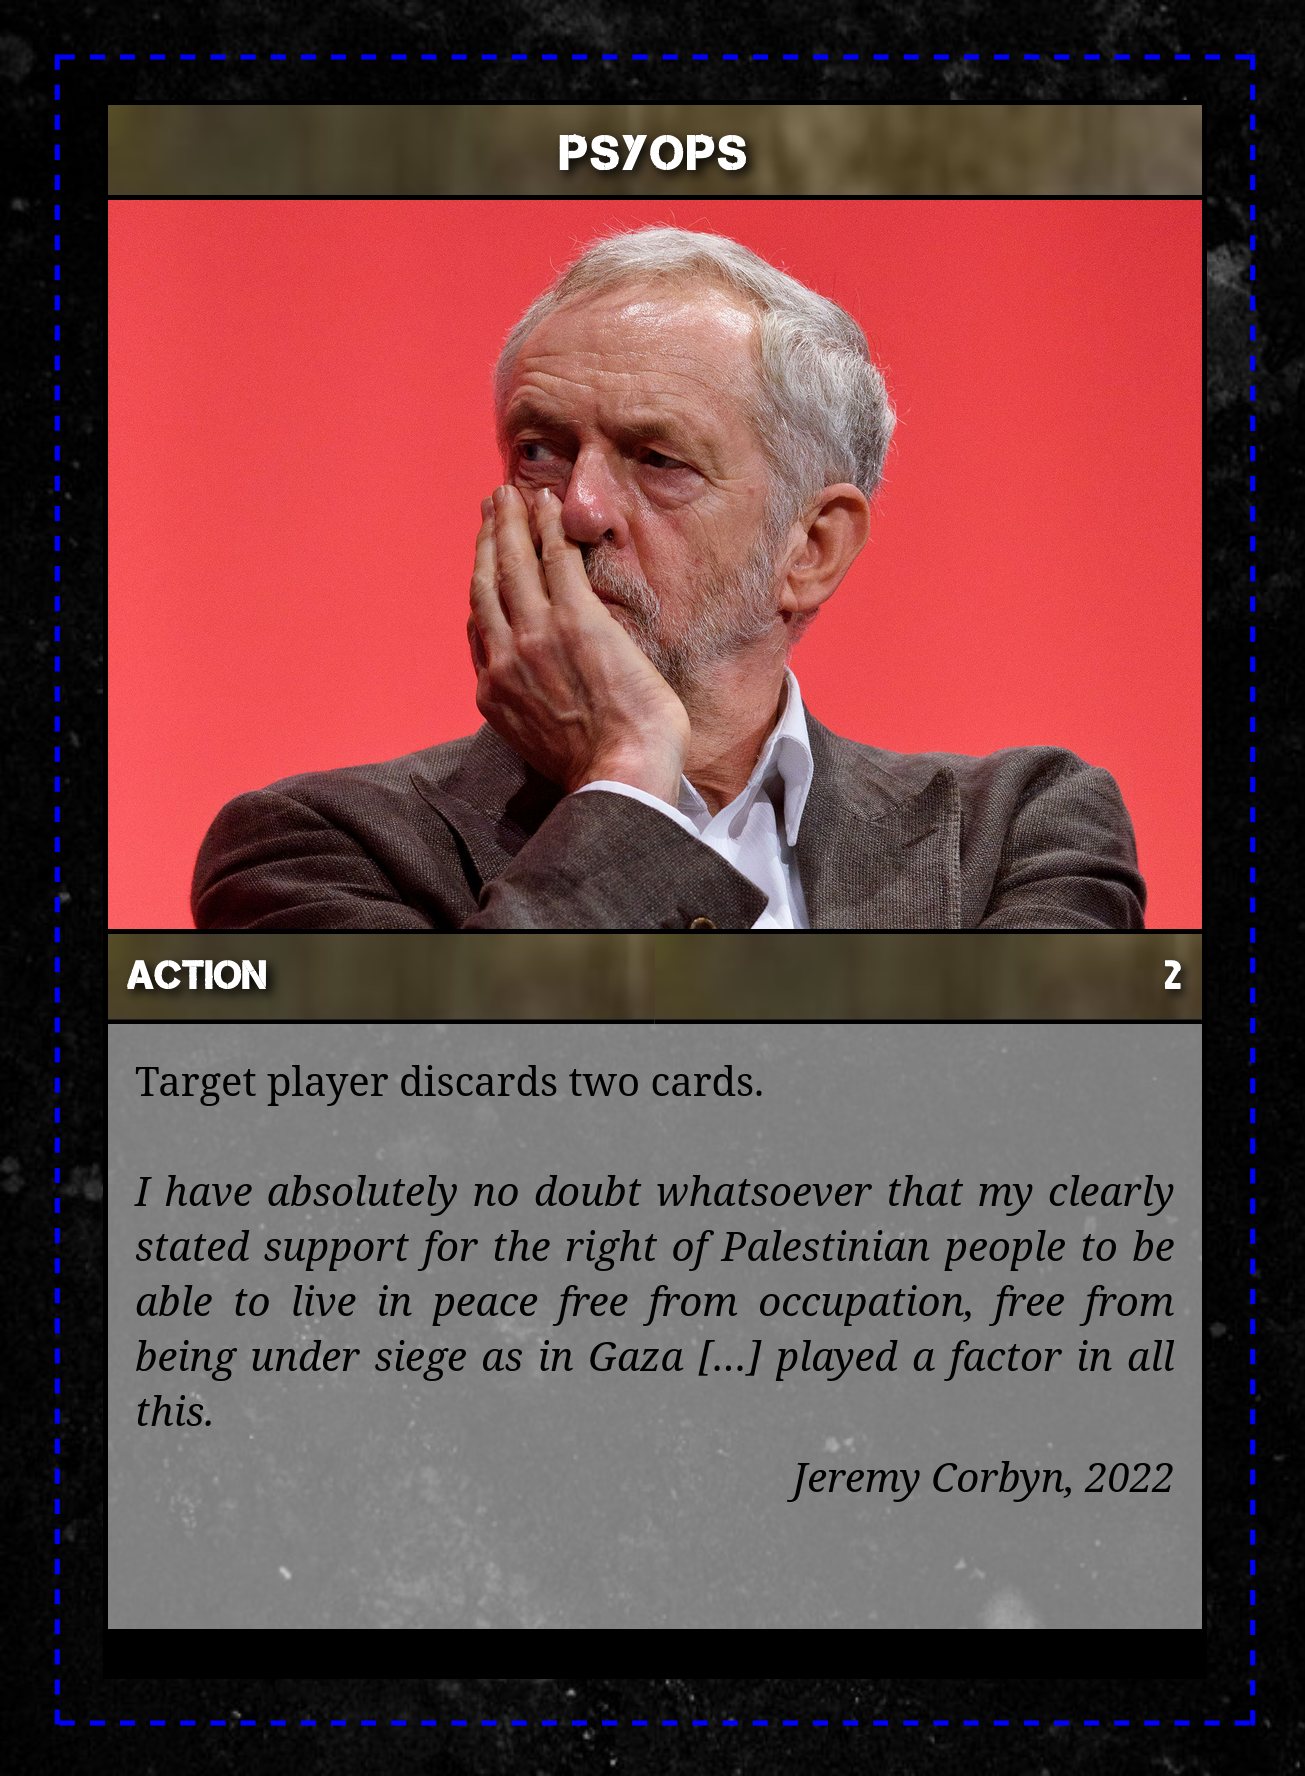
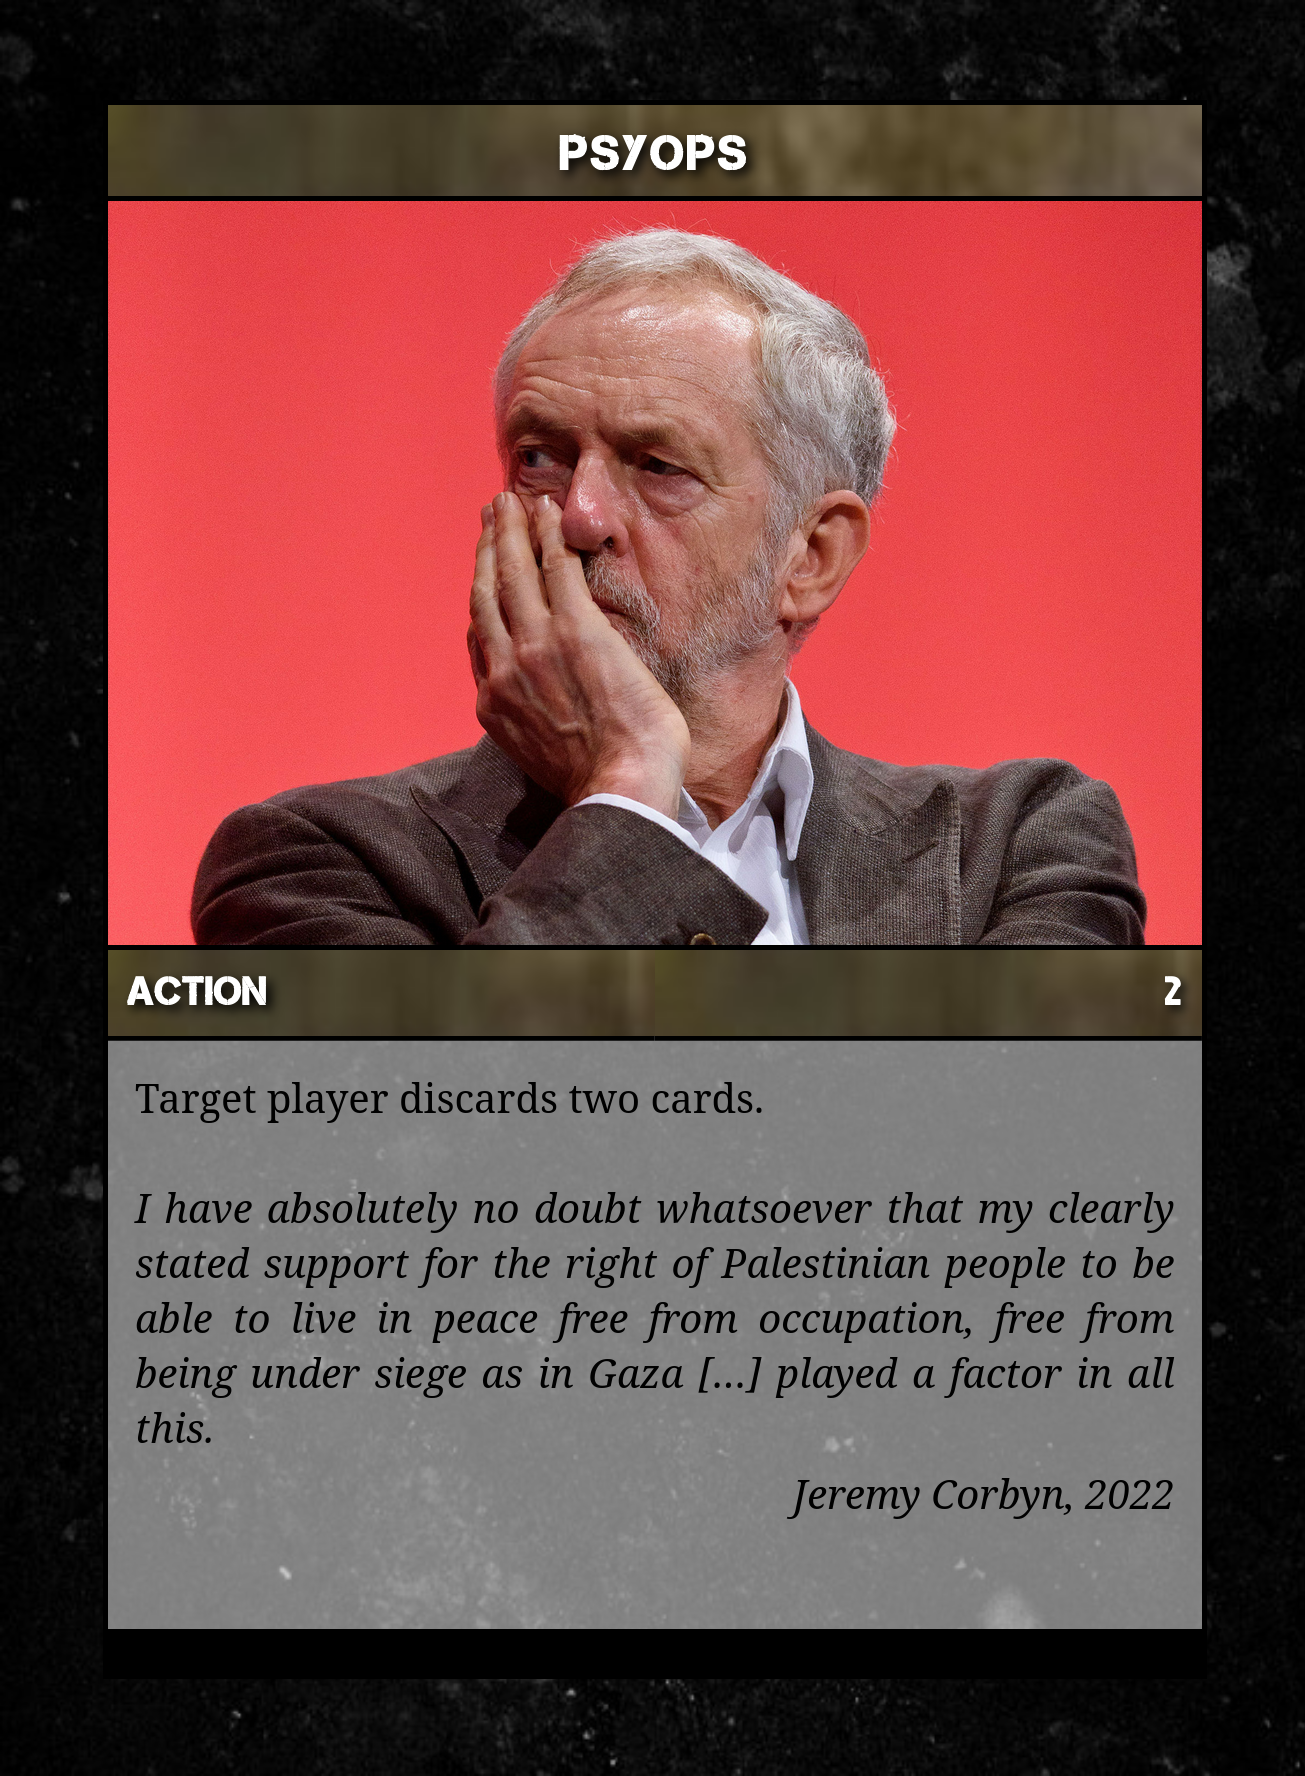
fix: fixed row height issue, thanks Jake

Changed region(s): [[0.0613, 0.1239, 0.9195, 0.8671], [0.9502, 0.031, 0.9808, 0.0619], [0.0307, 0.031, 0.0613, 0.0619]]

diff --git a/games/risk_2025/styles.css b/games/risk_2025/styles.css
@@ -67,7 +67,7 @@
     transform: translate(-50%, -50%);
     /* Center the cut area within the bleed */
     /* Optional: Add a temporary border here during testing to visualize the cut line */
-    border: 1px dashed blue;
+    /* border: 1px dashed blue; */
 
 }
 
@@ -93,7 +93,7 @@
     /* Split the 2.28in width evenly */
 
     /* Define your grid rows - adjust as needed */
-    grid-template-rows: .4fr 2fr .3fr 1fr 1fr;
+    grid-template-rows: 0.2in 1.55in 0.2in auto 0.2in;
     /* Example: rows for ID/Name, Type/Cost/Count, Image/Effect, Quote, Source */
     /* grid-template-rows: repeat(6, auto); */
 
@@ -179,7 +179,7 @@
 .card-image img {
     display: block;
     max-width: 100%;
-    height: auto;
+    height: 1.55in;
 }
 
 .card-body {
